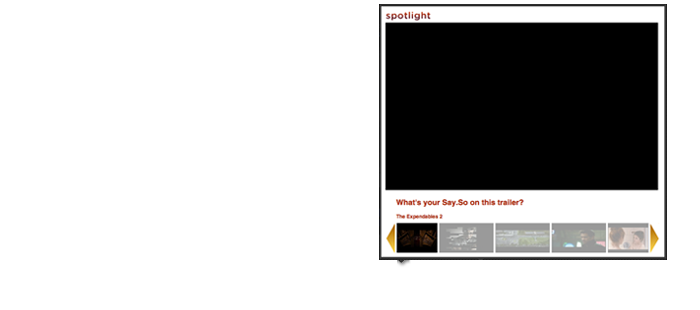
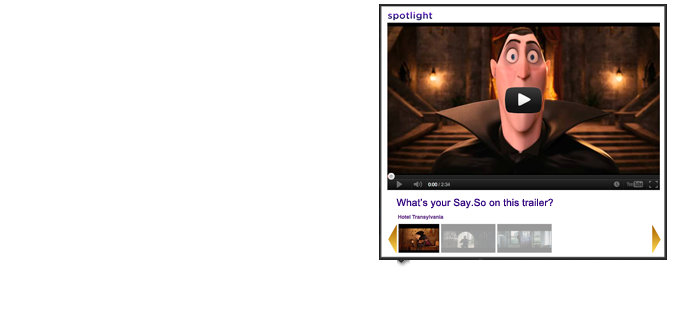
updating social landing page.

Changed region(s): [[0.54, 0.029, 0.96, 0.8419]]

diff --git a/public/client/social/landing/landing.css b/public/client/social/landing/landing.css
@@ -321,8 +321,9 @@ h1 small {
   font-size: 18px;
 }
 h2 {
-  font-size: 24px;
-  line-height: normal;
+	font-size: 24px;
+	line-height: normal;
+	color: #472395;
 }
 h2 small {
   font-size: 18px;

diff --git a/public/client/social/landing/index.php b/public/client/social/landing/index.php
@@ -41,8 +41,10 @@ a:hover {
 	<div id="sections" class="tab-content">
 	  <div class="section tab-pane active" id="section-1">
 	  	<div class="section-head">
-	  		<h2>Headline to go here</h2>
-	  		<p>Lorem ipsum dolor sit amet, consectetur adipisicing elit, sed do eiusmod  tempor incididunt ut labore et dolore magna aliqua. Ut enim ad minim  veniam, quis nostrud exercitation ullamco laboris nisi ut aliquip ex ea  commodo consequat. Duis aute irure dolor in reprehenderit in voluptate  velit esse cillum dolore</p>
+	  		<h2>What is Social Say.So?</h2>
+	  		<p>Are you a social or mobile gaming fanatic? Do you eagerly await for<br />
+	  		  new items in Farmville or a sequel to Plants VS. Zombies? If so,<br />
+  		    you're probably a perfect fit for Social Say.So!</p>
 			</div><!-- .section-head -->
 
 			<div class="slideshow">
@@ -62,7 +64,9 @@ a:hover {
 	  <div class="section tab-pane" id="section-2">
 	  	<div class="section-head">
 	  		<h2>What can I do?</h2>
-	  		<p>Earn Social Pay.So by taking movie polls, answering surveys and rating new and retro trailers. Redeem Social Pay.So for items in our Reward Center.</p>
+	  		<p>Earn Social PaySos by taking polls, answering surveys and giving your
+opinion on social, casual and mobile gaming. Redeem Social PaySos for
+items in our Reward Center.</p>
 			</div><!-- .section-head -->
 
 			<div class="slideshow">
@@ -81,7 +85,8 @@ a:hover {
 	  <div class="section tab-pane" id="section-3">
 	  	<div class="section-head">
 	  		<h2>What do I get?</h2>
-	  		<p>Great Prizes - The Reward Center is full of prizes designed specifically for movie fanatics. </p>
+	  		<p>Great Prizes - The Reward Center is full of prizes designed
+specifically for social game fanatics.</p>
 			</div><!-- .section-head -->
 
 			<div class="slideshow">
@@ -100,7 +105,9 @@ a:hover {
 	  	<div class="section-head">
 	  	<div id="create-password">
 	  		<h2>Let's get started</h2>
-	  		<p>Start by creating your unique Say.So password so we can make sure your points and rewards and saved.</p>
+	  		<p>Start by creating your unique Say.So password so we can make sure your
+points and rewards are saved. "Please allow the browser to install the
+extension.</p>
 	  		<br />
 	  		<form>
 	  			<p><input type="text" id="input-email" class="sso_fld" placeholder="Enter a valid email address" />
